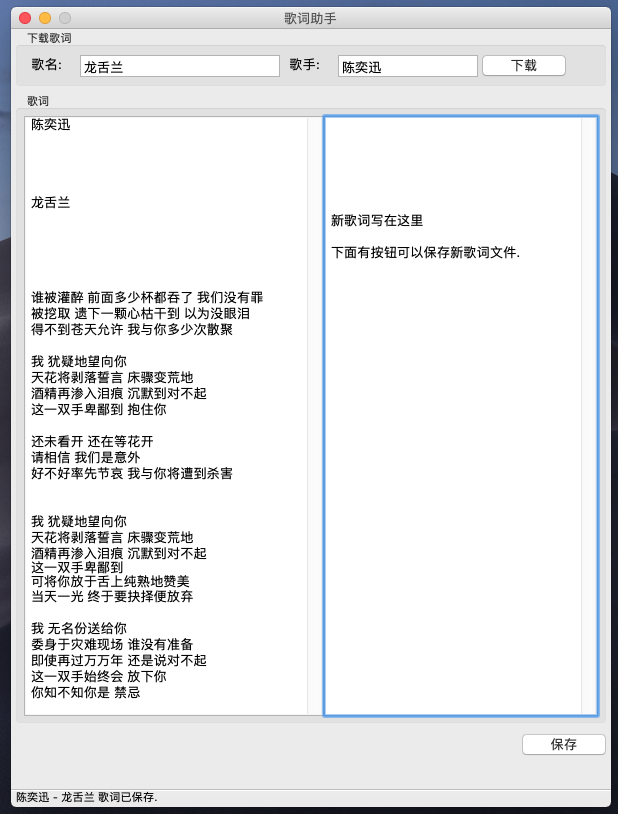
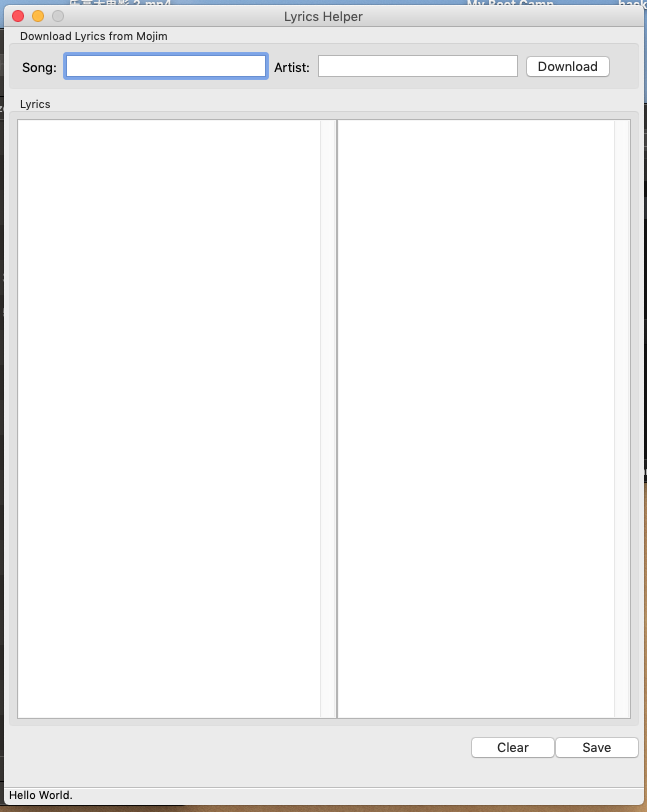
added menu bar
- added menu bar
- added lyricsapp file
- minor edits

Changed region(s): [[0.0, 0.0, 1.0, 1.0]]

diff --git a/gui.py b/gui.py
@@ -1,76 +1,195 @@
+import os
+import sys
 import wx
 from cantolyrics import Character, Word, Mojim
 
-class MyGUI(wx.Frame):
-    def __init__(self, parent, title, size=(600, 800)):
+
+class LyricsGUI(wx.Frame):
+    def __init__(self, parent, title, size=(640, 800)):
         wx.Frame.__init__(
             self, parent, title=title, size=size,
             style=wx.DEFAULT_FRAME_STYLE & ~(wx.RESIZE_BORDER | wx.MAXIMIZE_BOX)
             )
         self.CenterOnScreen()
         self.panel = wx.Panel(self)
+        self.mojim = Mojim()
 
         # ----- search field container -----
-        download_sizer = wx.StaticBoxSizer(wx.HORIZONTAL, self.panel, label='下载歌词')
-        song_label = wx.StaticText(self.panel, label=' 歌名:', size=(50, -1))
+        download_sizer = wx.StaticBoxSizer(
+            wx.HORIZONTAL, self.panel, label='Download Lyrics from Mojim'
+            )
+        song_label = wx.StaticText(self.panel, label='Song:', size=(40, -1))
         self.song_field = wx.TextCtrl(self.panel, size=(200, -1))
-        artist_label = wx.StaticText(self.panel, label=' 歌手:', size=(50, -1))
-        self.artist_field = wx.TextCtrl(self.panel, size=(140, -1))
-        search_button = wx.Button(self.panel, label='下载')
-        search_button.Bind(wx.EVT_BUTTON, self.download_lyrics)
-        download_sizer.Add(song_label, 0, wx.ALL | wx.EXPAND, 2)
-        download_sizer.Add(self.song_field, 0, wx.ALL | wx.EXPAND, 2)
-        download_sizer.Add(artist_label, 0, wx.ALL | wx.EXPAND, 2)
-        download_sizer.Add(self.artist_field, 0, wx.ALL | wx.EXPAND, 2)
-        download_sizer.Add(search_button, 0, wx.ALL | wx.EXPAND, 2)
+        artist_label = wx.StaticText(self.panel, label='Artist:', size=(40, -1))
+        self.artist_field = wx.TextCtrl(self.panel, size=(200, -1))
+        download_button = wx.Button(self.panel, label='Download')
+        download_button.Bind(wx.EVT_BUTTON, self.download_lyrics)
+        download_sizer.Add(song_label, 0, wx.ALL | wx.CENTER, 3)
+        download_sizer.Add(self.song_field, 0, wx.ALL | wx.CENTER, 3)
+        download_sizer.Add(artist_label, 0, wx.ALL | wx.CENTER, 3)
+        download_sizer.Add(self.artist_field, 0, wx.ALL | wx.CENTER, 3)
+        download_sizer.Add(download_button, 0, wx.ALL | wx.CENTER, 5)
 
         # ----- editor container -----
-        self.lyrics_sizer = wx.StaticBoxSizer(wx.HORIZONTAL, self.panel, label='歌词')
-        self.lyrics_original = wx.TextCtrl(self.panel, -1, size=(300, 600), 
-                       style=wx.TE_MULTILINE | wx.TE_PROCESS_ENTER)
-        self.lyrics_new = wx.TextCtrl(self.panel, -1, size=(300, 600), 
-                       style=wx.TE_MULTILINE | wx.TE_PROCESS_ENTER)
-        self.lyrics_sizer.Add(self.lyrics_original, 0, wx.ALL)
-        self.lyrics_sizer.Add(self.lyrics_new, 0, wx.ALL)
+        lyrics_sizer = wx.StaticBoxSizer(wx.HORIZONTAL, self.panel, label='Lyrics')
+        self.lyrics_original = wx.TextCtrl(
+            self.panel, -1, size=(320, 600), style=wx.TE_MULTILINE | wx.TE_PROCESS_ENTER
+            )
+        self.lyrics_new = wx.TextCtrl(
+            self.panel, -1, size=(320, 600), style=wx.TE_MULTILINE | wx.TE_PROCESS_ENTER
+            )
+        lyrics_sizer.Add(self.lyrics_original, 0, wx.ALL)
+        lyrics_sizer.Add(self.lyrics_new, 0, wx.ALL)
 
-        # ----- buttons -----
+        # ----- buttons container -----
         buttons_sizer = wx.BoxSizer(wx.HORIZONTAL)
-        save_button = wx.Button(self.panel, label='保存', style=wx.ALIGN_RIGHT)
-        save_button.Bind(wx.EVT_BUTTON, self.save_lyrics)
-        buttons_sizer.Add(save_button, 0, wx.ALL)
+        clear_button = wx.Button(self.panel, label='Clear')
+        clear_button.Bind(wx.EVT_BUTTON, self.clear_editors)
+        buttons_sizer.Add(clear_button, 0, wx.ALL)
 
         # ----- main container -----
         self.main_sizer = wx.BoxSizer(wx.VERTICAL)
         self.main_sizer.Add(download_sizer, 0, wx.ALL | wx.EXPAND, 2)
-        self.main_sizer.Add(self.lyrics_sizer, 0, wx.ALL | wx.EXPAND, 2)
-        self.main_sizer.Add(buttons_sizer, 0, wx.ALL | wx.ALIGN_RIGHT, 5)
+        self.main_sizer.Add(lyrics_sizer, 0, wx.ALL | wx.EXPAND, 2)
+        self.main_sizer.Add(buttons_sizer, 0, wx.ALL | wx.ALIGN_CENTER, 5)
         self.main_sizer.Fit(self.panel)
         self.panel.SetSizer(self.main_sizer)
 
+        # ----- menu bar -----
+        menubar = MyMenuBar(self)
+        self.SetMenuBar(menubar)
+
         # ----- status bar -----
         self.CreateStatusBar()
-        self.SetStatusText('你好.')
+        self.SetStatusText('Hello World.')
 
     def download_lyrics(self, event):
         song = self.song_field.GetValue()
-        artist = self.artist_field.GetValue()
-        mojim = Mojim()
-        mojim.artist = artist
-        if mojim.save(song):
-            self.SetStatusText(f'{mojim.artist} - {song} 歌词已保存.')
-            with open(f'{mojim.artist} - {song}.txt', 'r') as lyrics:
+        self.mojim.artist = self.artist_field.GetValue()
+        file = f'{self.mojim.artist} - {song}.txt'
+        if self.mojim.save(song):
+            with open(file, 'r') as lyrics:
+                self.lyrics_original.Clear()
                 self.lyrics_original.write(''.join(lyrics))
+            self.SetStatusText(f'lyrics for {self.mojim.artist} - {song} saved.')
         else:
-            self.SetStatusText(f'找不到 {song} 的歌詞')
+            self.SetStatusText(
+                f'unable to download lyrics for {self.mojim.artist} - {song}.'
+                )
+        return None
+
+    def clear_editors(self, event):
+        self.lyrics_original.Clear()
+        self.lyrics_new.Clear()
+        self.SetStatusText('Editors cleard.')
+        return None
 
     def save_lyrics(self, event):
-        with open('new_lyrics.txt', 'w', encoding='utf-8') as fout:
-            lyrics = self.lyrics_new.GetValue()
-            fout.write(lyrics)
+        wildcards = 'Text file (*.txt)|*.txt|' \
+                'Lyrics file (*.lyrics)|*.lyrics|' \
+                'All files (*.*)|*.*'
+
+        dialog = wx.FileDialog(
+            self.panel, 
+            message='Save lyrics as ...', 
+            defaultDir=os.getcwd(),
+            defaultFile=f'{self.artist_field.GetValue()} - {self.song_field.GetValue()}.txt', 
+            wildcard=wildcards, 
+            style=wx.FD_SAVE | wx.FD_OVERWRITE_PROMPT
+            )
+
+        if dialog.ShowModal() == wx.ID_OK:
+            path = dialog.GetPath()
+            with open(path, 'w') as fout:
+                fout.write(self.lyrics_new.GetValue())
+            self.SetStatusText(f'lyrics save to {path}.')
+        else:
+            self.SetStatusText('save cancelled.')
+        return None
+
+
+class MyMenuBar(wx.MenuBar):
+    def __init__(self, frame):
+        wx.MenuBar.__init__(self)
+        self.frame = frame
+
+        menu1 = wx.Menu()
+        menu1_open = menu1.Append(101, 'Open...')
+        menu1_save = menu1.Append(102, 'Save')
+        menu1.AppendSeparator()
+        menu1_exit = menu1.Append(103, 'Close', 'Exit')
+
+        menu2 = wx.Menu()
+        menu2_simplified = menu2.Append(201, 'Simplified Chinese', '', wx.ITEM_RADIO)
+        menu2_traditional = menu2.Append(202, 'Traditional Chinese', '', wx.ITEM_RADIO)
+ 
+        help_menu = wx.Menu()
+        about = help_menu.Append(wx.ID_ABOUT)
+
+        self.Bind(wx.EVT_MENU, self.file_dialog, menu1_open)
+        self.Bind(wx.EVT_MENU, self.frame.save_lyrics, menu1_save)
+        self.Bind(wx.EVT_MENU, self.exit_program, menu1_exit)
+        self.Bind(wx.EVT_MENU, self.change_lang, menu2_simplified)
+        self.Bind(wx.EVT_MENU, self.change_lang, menu2_traditional)
+        self.Bind(wx.EVT_MENU, self.about_dialog, about)
+
+        self.Append(menu1, 'File')
+        self.Append(menu2, 'Options')
+        self.Append(help_menu, 'Help')
+
+    def exit_program(self, event):
+        sys.exit()
+
+    def about_dialog(self, event):
+        """about dialog box"""
+
+        info = wx.adv.AboutDialogInfo()
+        info.Name = '歌词助手'
+        info.Version = 'v0.0.3'
+        info.Copyright = '(c) 2019 Wenbin Wu\n' 
+        info.Description = '' + \
+            'Email: dev@wuwenb.in\n' + \
+            'Github: https://github.com/wenbinwu85/'     
+        wx.adv.AboutBox(info)
+        return None
+
+    def file_dialog(self, event):
+        """file dialog"""
+
+        wildcards = 'Text file (*.txt)|*.txt|' \
+                'Lyrics file (*.lyrics)|*.lyrics|' \
+                'All files (*.*)|*.*'
+
+        dialog = wx.FileDialog(
+            self, 
+            message='Choose a lyrics file',
+            defaultDir=os.getcwd(),
+            defaultFile='',
+            wildcard=wildcards,
+            style=wx.FD_OPEN | wx.FD_MULTIPLE | wx.FD_CHANGE_DIR | 
+            wx.FD_FILE_MUST_EXIST | wx.FD_PREVIEW
+            )
+
+        if dialog.ShowModal() == wx.ID_OK:
+            path = dialog.GetPath()
+            with open(path, 'r') as file:
+                self.frame.lyrics_original.Clear()
+                self.frame.lyrics_original.write(''.join(file))
+        return None
+
+    def change_lang(self, event):
+        if event.GetId() == 201:
+            self.frame.mojim.lang = 0
+            self.frame.SetStatusText('Mojim language set to Simplified Chinese.')
+        elif event.GetId() == 202:
+            self.frame.mojim.lang = 1
+            self.frame.SetStatusText('Mojim language set to Traditional Chinese.')
+        return None
+            
 
 
 if __name__ == '__main__':
     app = wx.App()
-    myframe = MyGUI(None, '歌词助手')
+    myframe = LyricsGUI(None, 'Lyrics Helper')
     myframe.Show()
     app.MainLoop()

diff --git a/cantolyrics.py b/cantolyrics.py
@@ -138,31 +138,13 @@ class Word:
 class Mojim:
     def __init__(self, artist=''):
         self._artist = artist
-        self.artist_page = f'https://mojim.com/{self.artist}.html?g1',
+        self._lang = 0
+        self._tag = ['g3', 't3']
 
     def _make_soup(self, url):
         resp = requests.get(url).text
         soup = BeautifulSoup(resp, 'html5lib')
         return soup
-
-    def _find_urls(self, song):
-        try: 
-            soup = self._make_soup(f'https://mojim.com/{song}.html?g3')
-        except Exception as e:
-            print(e)
-            print('unable to make soup :(')
-
-        spans = soup.findAll('span', {'class': 'mxsh_ss4'})
-        pattern = re.compile(r'(.*?) ')
-        result = []
-        for s in spans:
-            link = s.find('a', {'title': pattern})
-            if link is not None:
-                title = link.get('title')
-                href = link.get('href')
-                if self.artist in title:
-                    result.append(href)
-        return result
 
     def _clean(self, lyrics):
         cleaned = ''
@@ -183,13 +165,31 @@ class Mojim:
     def artist(self, name):
         self._artist = name
 
+    @property
+    def lang(self):
+        return self._lang
+    
+    @lang.setter
+    def lang(self, lang):
+        self._lang = lang
+
     def save(self, song):
-        song_urls = self._find_urls(song)
-        for url in song_urls:
+        soup = self._make_soup(f'https://mojim.com/{song}.html?{self._tag[self._lang]}')
+        spans = soup.findAll('span', {'class': 'mxsh_ss4'})
+        pattern = re.compile(r'(.*?) ')
+        result = []
+        for s in spans:
+            link = s.find('a', {'title': pattern})
+            if link:
+                title = link.get('title')
+                href = link.get('href')
+                if self.artist in title:
+                    result.append(href)
+        if not result:
+            return False
+        for url in result:
             soup = self._make_soup(f'http://mojim.com{url}')
             lyrics = soup.find('dl', {'id': 'fsZx1'})
-            if lyrics is None:
-                return False
             lyrics = self._clean(lyrics)
             with open(f'{self.artist} - {song}.txt', 'w', encoding='utf-8') as fout:
                 fout.write(lyrics)
@@ -221,8 +221,6 @@ class Mojim:
 
 
 if __name__ == '__main__':
-
     mj = Mojim()
-    mj.artist = '陈奕迅'
-    print(mj.artist)
-    mj.save('让我留在你身边')
+    mj.artist = '陳奕迅'
+    mj.save('讓我留在你身邊')

diff --git a/lyricsapp.py b/lyricsapp.py
@@ -1,0 +1,17 @@
+import wx
+import wx.adv
+from gui import LyricsGUI
+
+
+class LyricsApp(wx.App):
+    """Custom app class"""
+
+    def OnInit(self):
+        self.frame = LyricsGUI(None, title='Lyrics Helper')
+        self.frame.Show()
+        return True
+
+
+if __name__ == '__main__':
+    app = LyricsApp()
+    app.MainLoop()

diff --git a/README.md b/README.md
@@ -7,7 +7,7 @@ I wrote this little script to help me write Cantonese song lyrics.
 
 歌词助手
 
-最近迷上写歌词，发现写广东歌词真的很难， 所以写了个助手帮忙。
+最近迷上写歌词，发现写广东歌词真的很难， 所以些了个助手帮忙。
 
 主要功能：
 - 粤拼搜查
